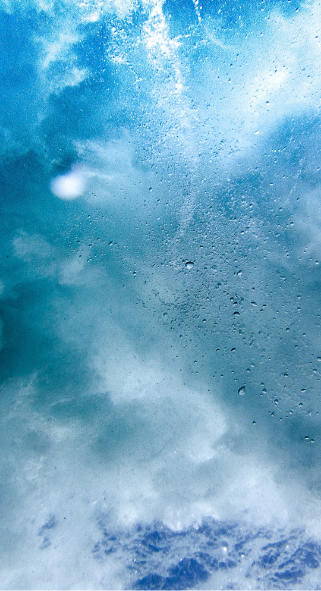
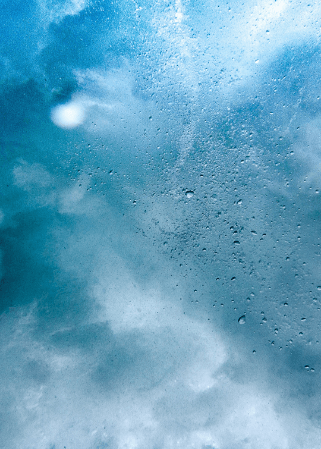
Optimize Images

diff --git a/index.html b/index.html
@@ -9,7 +9,8 @@
   <body>
     <section class="hero-section">
       <div class="bacground-img">
-        <img src="img/O-Hero-background.png" alt="" />
+        <!-- <img src="img/H-Hero-background.png" alt="" /> -->
+        <img src="img/Hero-background.jpg" alt="" />
       </div>
       <header class="container">
         <a href="#" class="logo"><span class="white">Mexico</span> Island</a>
@@ -57,11 +58,11 @@
               <p>the paradise island you've always dreamed of visiting</p>
             </div>
             <div class="img-holder">
-              <img src="img/slider-O-img-1.png" alt="" class="active" />
-              <img src="img/slider-O-img-2.png" alt="" />
-              <img src="img/slider-O-img-3.png" alt="" />
-              <img src="img/slider-O-img-4.png" alt="" />
-              <img src="img/slider-O-img-5.png" alt="" />
+              <img src="img/slider-img-1.png" alt="" class="active" />
+              <img src="img/slider-img-2.png" alt="" />
+              <img src="img/slider-img-3.png" alt="" />
+              <img src="img/slider-img-4.png" alt="" />
+              <img src="img/slider-img-5.png" alt="" />
             </div>
           </div>
           <div class="controls">

diff --git a/CSS/stylesheet.css b/CSS/stylesheet.css
@@ -403,7 +403,7 @@ header .menu:hover span:first-child {
 }
 .hero-box .slider .img-holder {
   width: 24vw;
-  height: 50vh;
+  min-height: 50vh;
   opacity: 0;
   max-width: 24vw;
   overflow: hidden;
